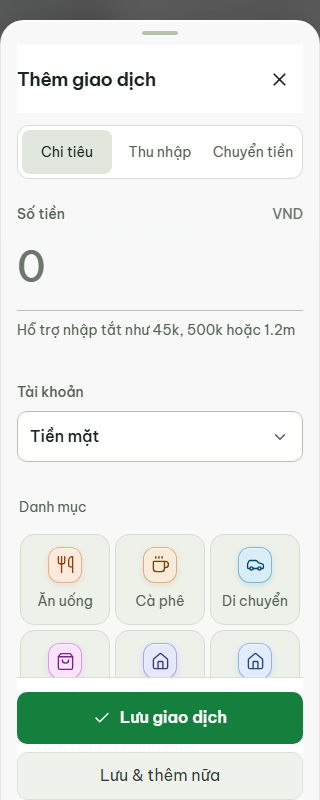
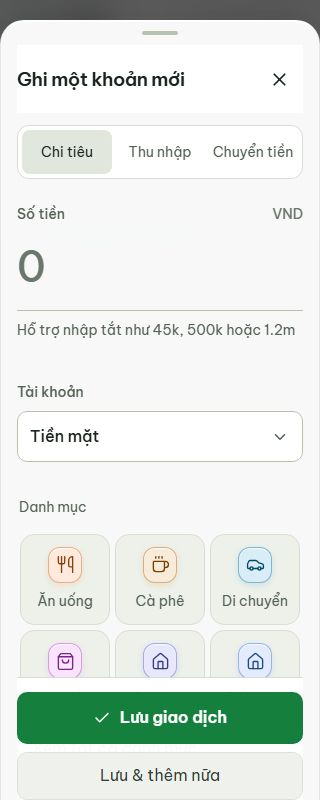
fix(ci): restore transaction sheet title and smoke assertions for Android release

Changed region(s): [[0.2188, 0.0938, 0.5938, 0.125], [0.0625, 0.0938, 0.1562, 0.125]]

diff --git a/src/features/transactions/Transactions.tsx b/src/features/transactions/Transactions.tsx
@@ -164,7 +164,7 @@ export default function Transactions() {
       </div>
       {!items.length ? (
         <Empty
-          title="Không có giao dịch"
+          title="Chưa có giao dịch ở đây"
           description="Thử đổi bộ lọc hoặc thêm giao dịch mới."
           action="Thêm giao dịch"
           onAction={() => openTransaction()}

diff --git a/src/features/transactions/TransactionSheet.tsx b/src/features/transactions/TransactionSheet.tsx
@@ -172,7 +172,7 @@ export function TransactionSheet({
   }
   return (
     <Sheet
-      title={draft.id ? "Chi tiết giao dịch" : "Thêm giao dịch"}
+      title={draft.id ? "Chi tiết giao dịch" : "Ghi một khoản mới"}
       onClose={onClose}
       dirty={!clean && (isDirty || type !== (draft.type ?? "expense"))}
     >
